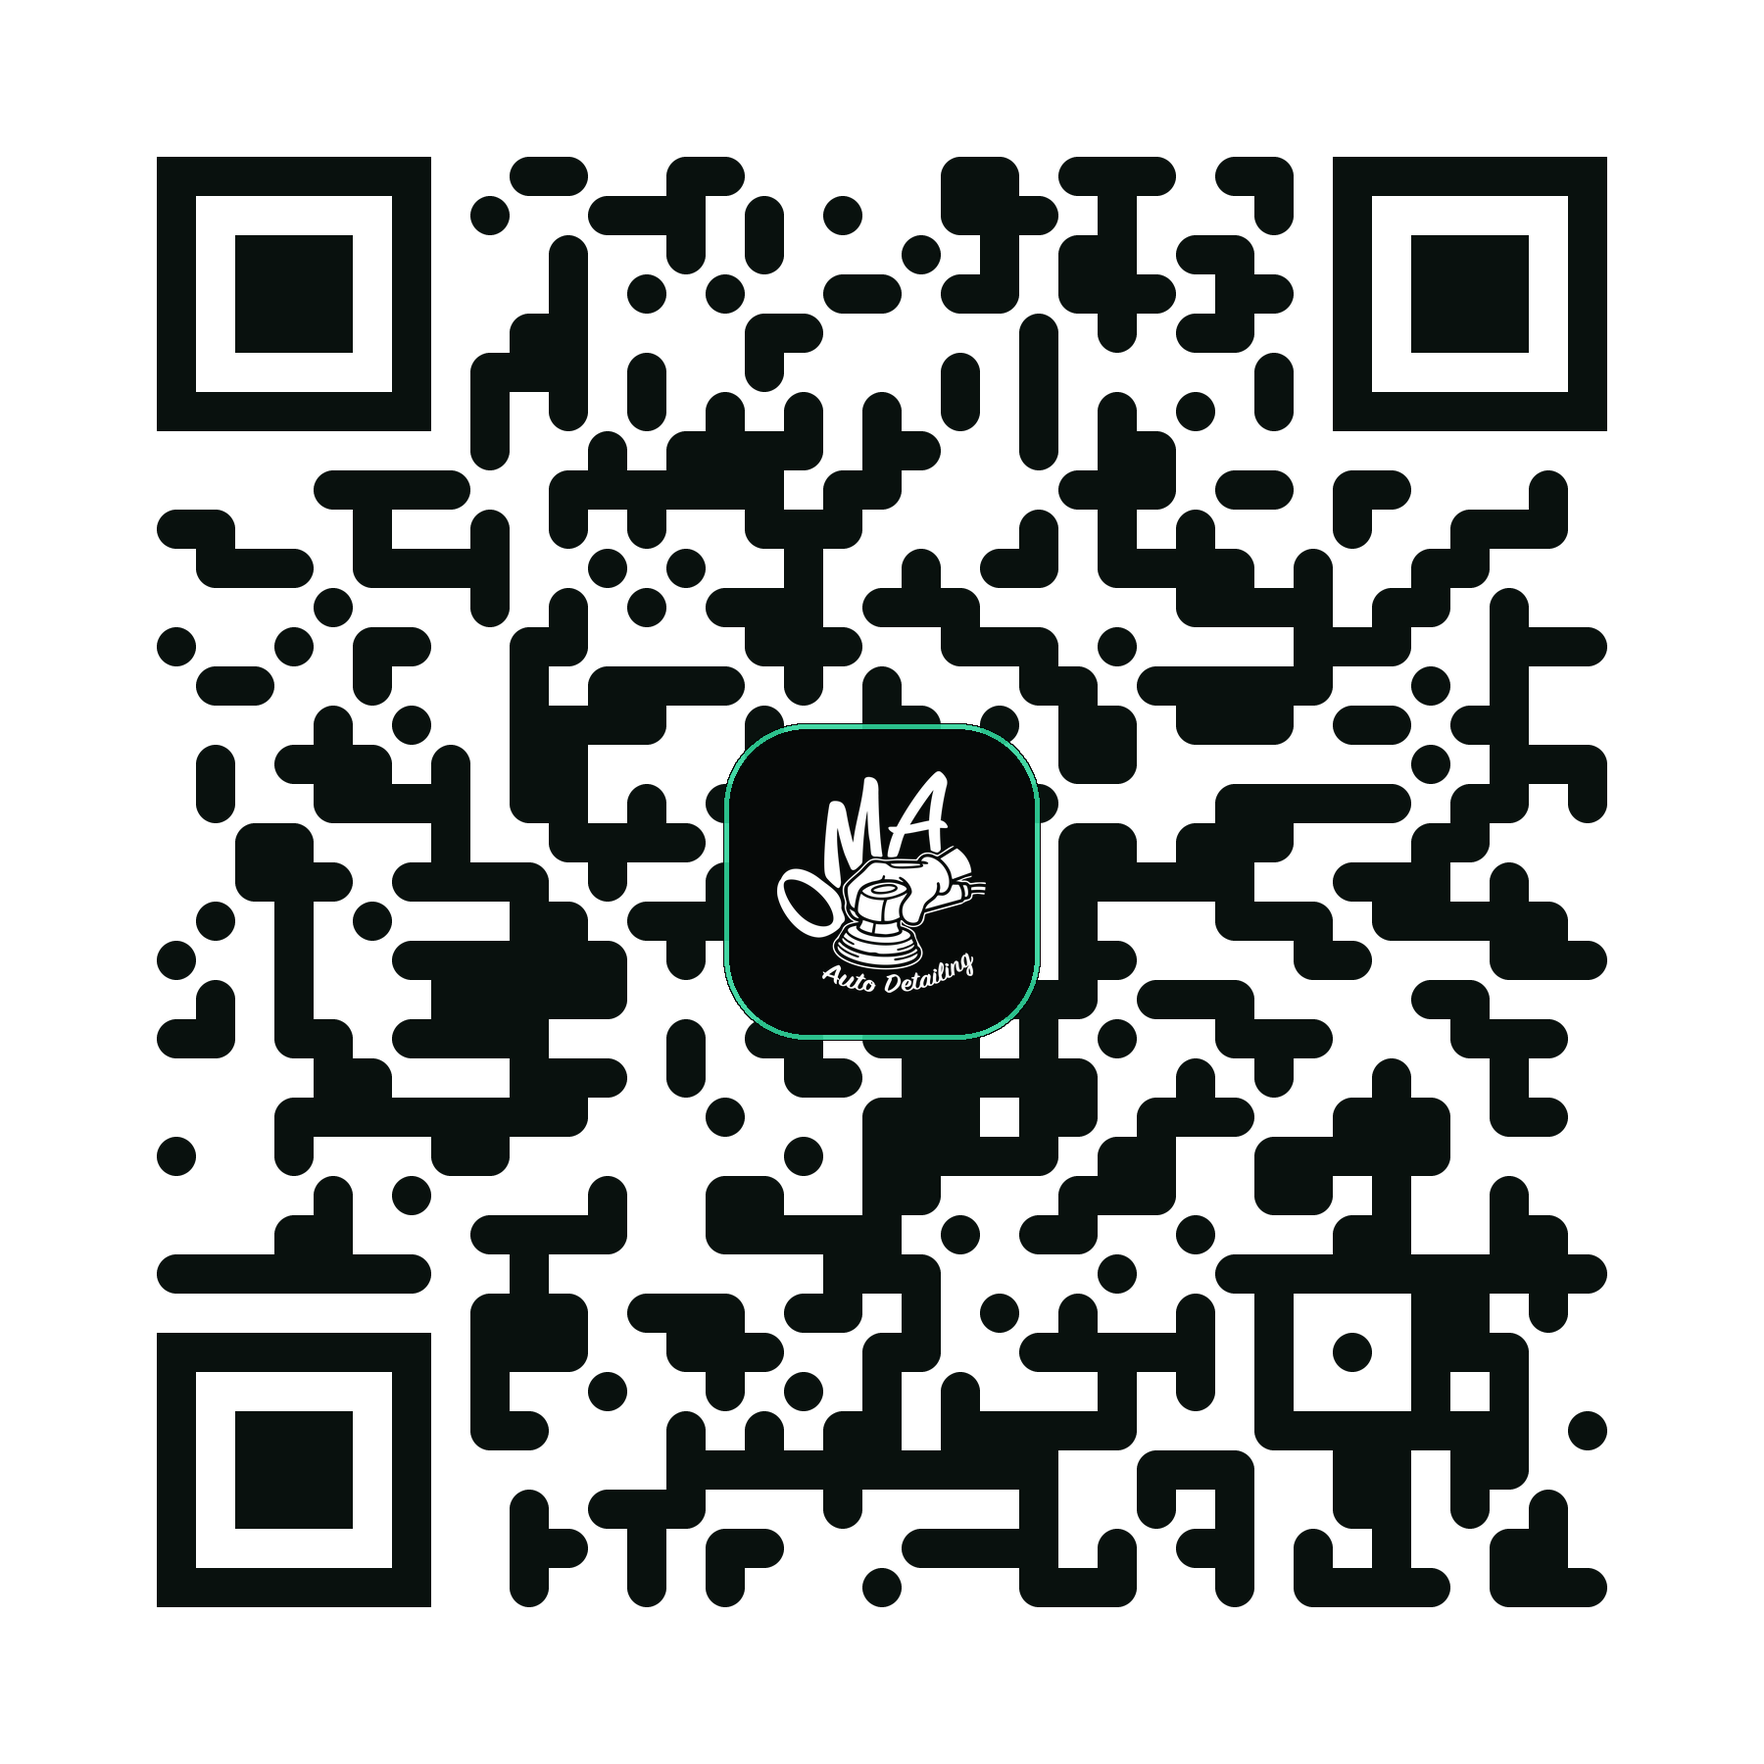
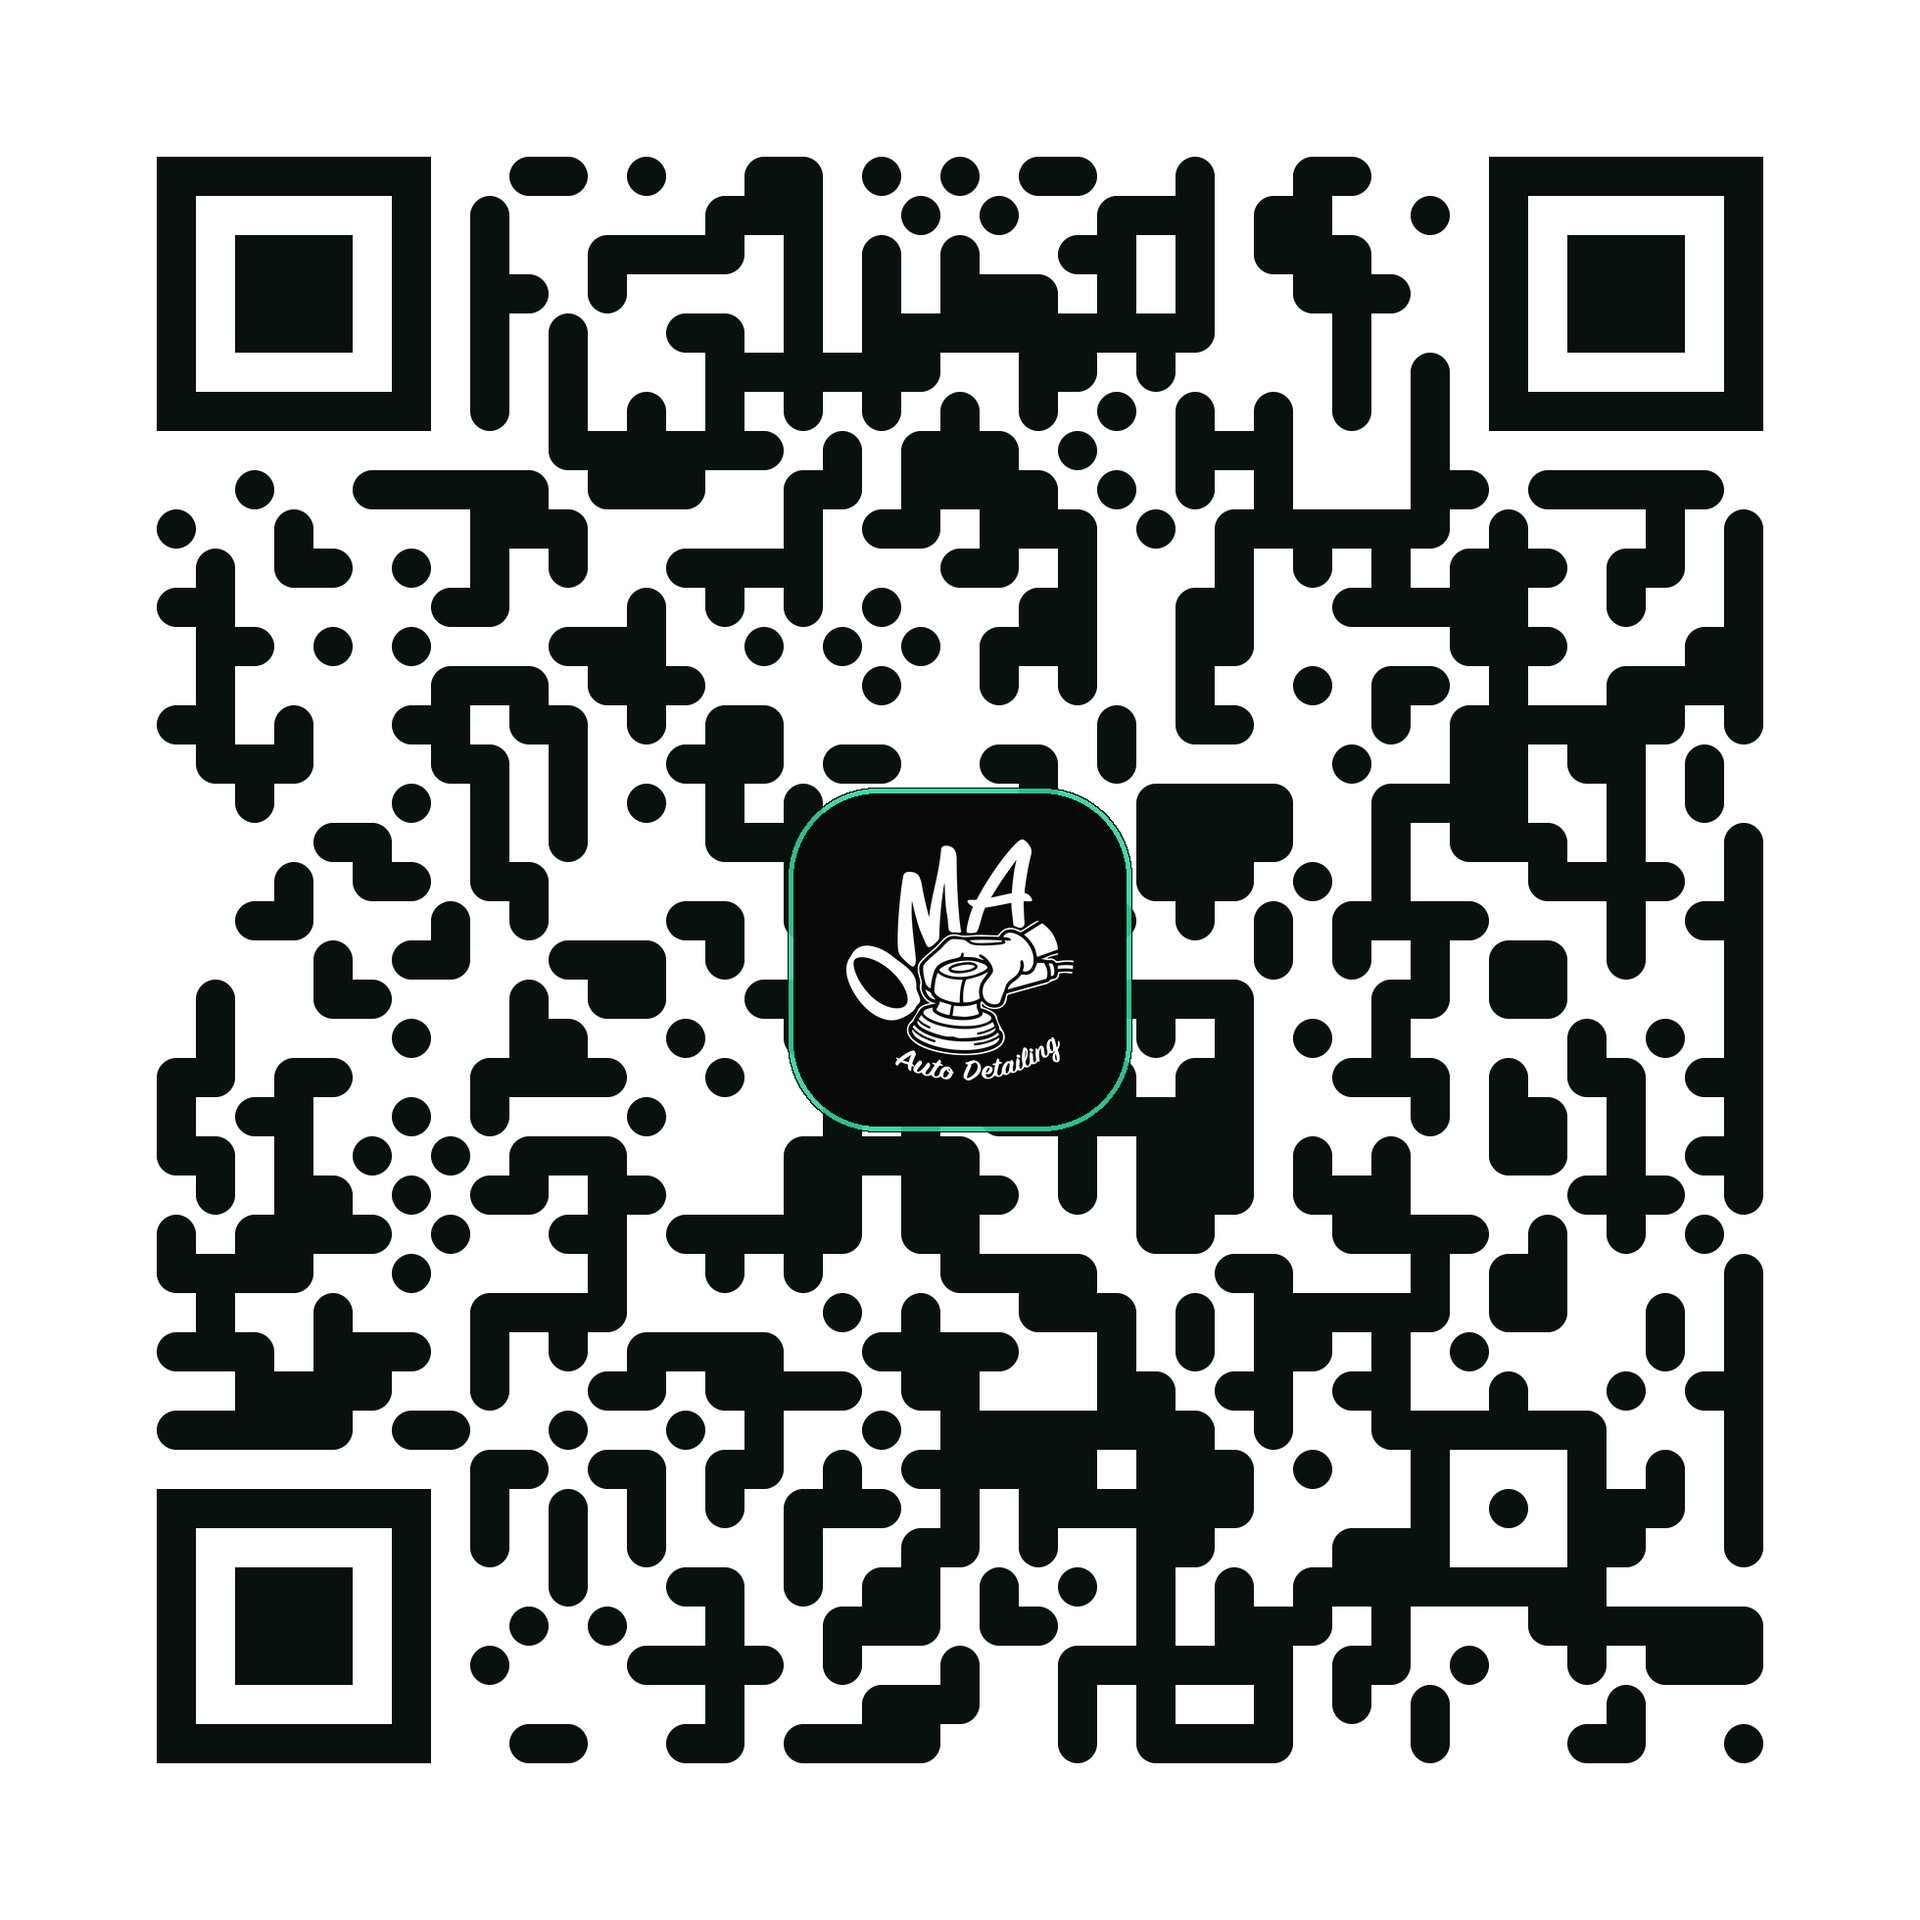
Point QR cards at live GitHub Pages link (no DNS needed)
Owner chose to skip the custom domain; QR now encodes the live
github.io URL so printed cards scan immediately. Verified decode.

Claude-Session: https://claude.ai/code/session_01BL4khzH5ehb5xEcWeMpkiV

diff --git a/make_cards.py b/make_cards.py
@@ -10,7 +10,7 @@ from qrcode.image.styles.moduledrawers.pil import RoundedModuleDrawer
 from qrcode.image.styles.colormasks import SolidFillColorMask
 import cv2, numpy as np
 
-URL="https://care.omaautodetailing.com.au"
+URL="https://luka3nglish-commits.github.io/oma-ceramic-care/"
 ROOT=os.path.dirname(os.path.abspath(__file__))
 OUT=os.path.join(ROOT,"qr"); os.makedirs(OUT,exist_ok=True)
 A=os.path.join(ROOT,"assets"); LOGO=os.path.join(A,"logo.png"); MARBLE=os.path.join(A,"marble.jpg")
